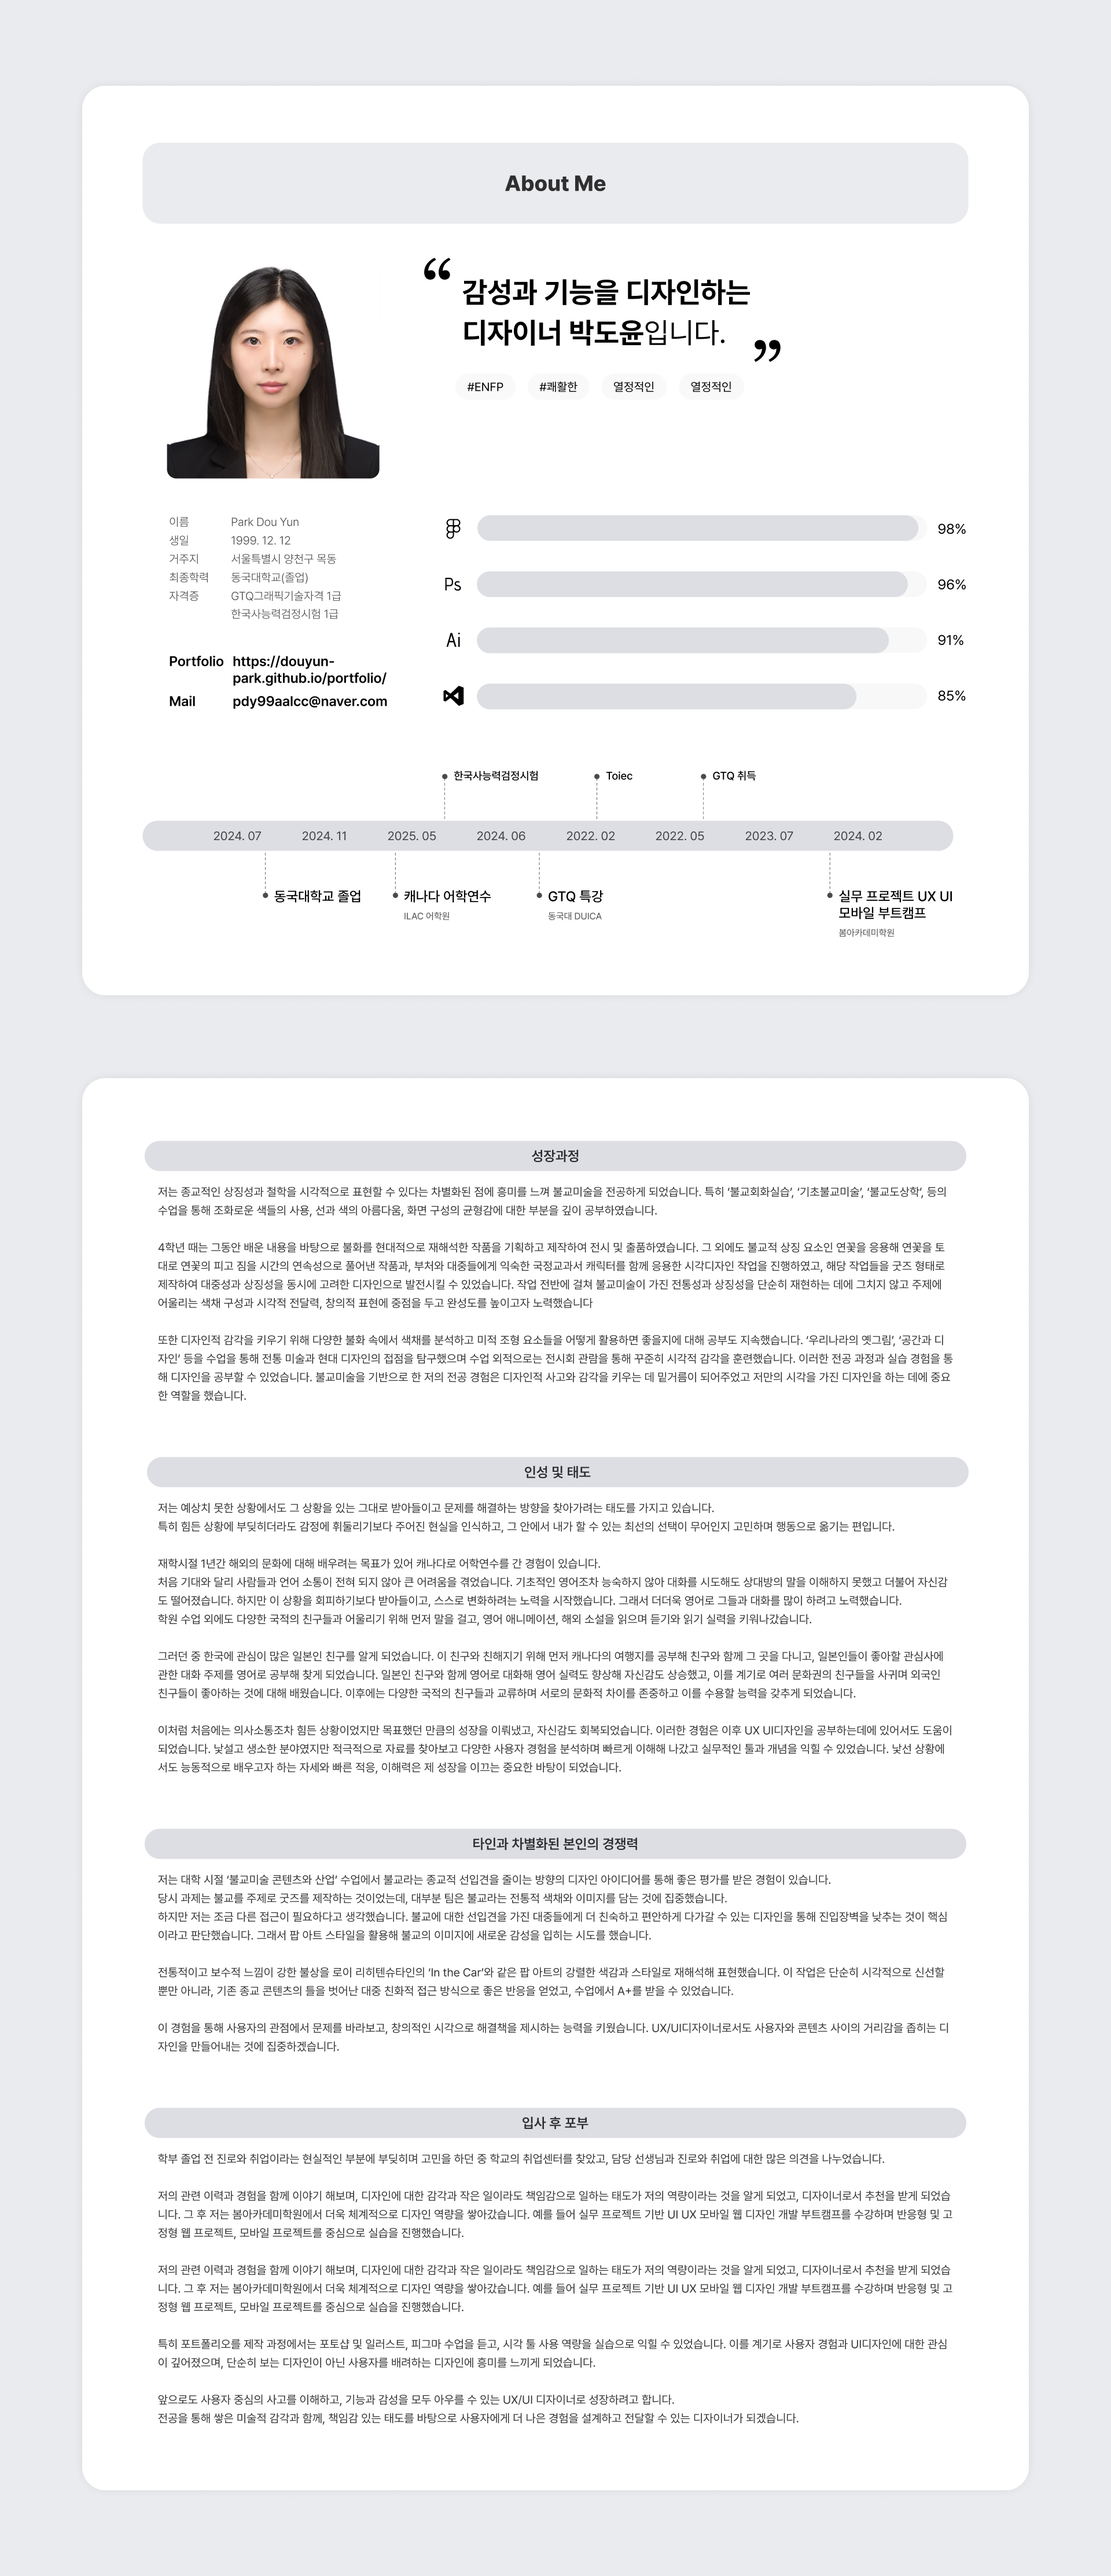
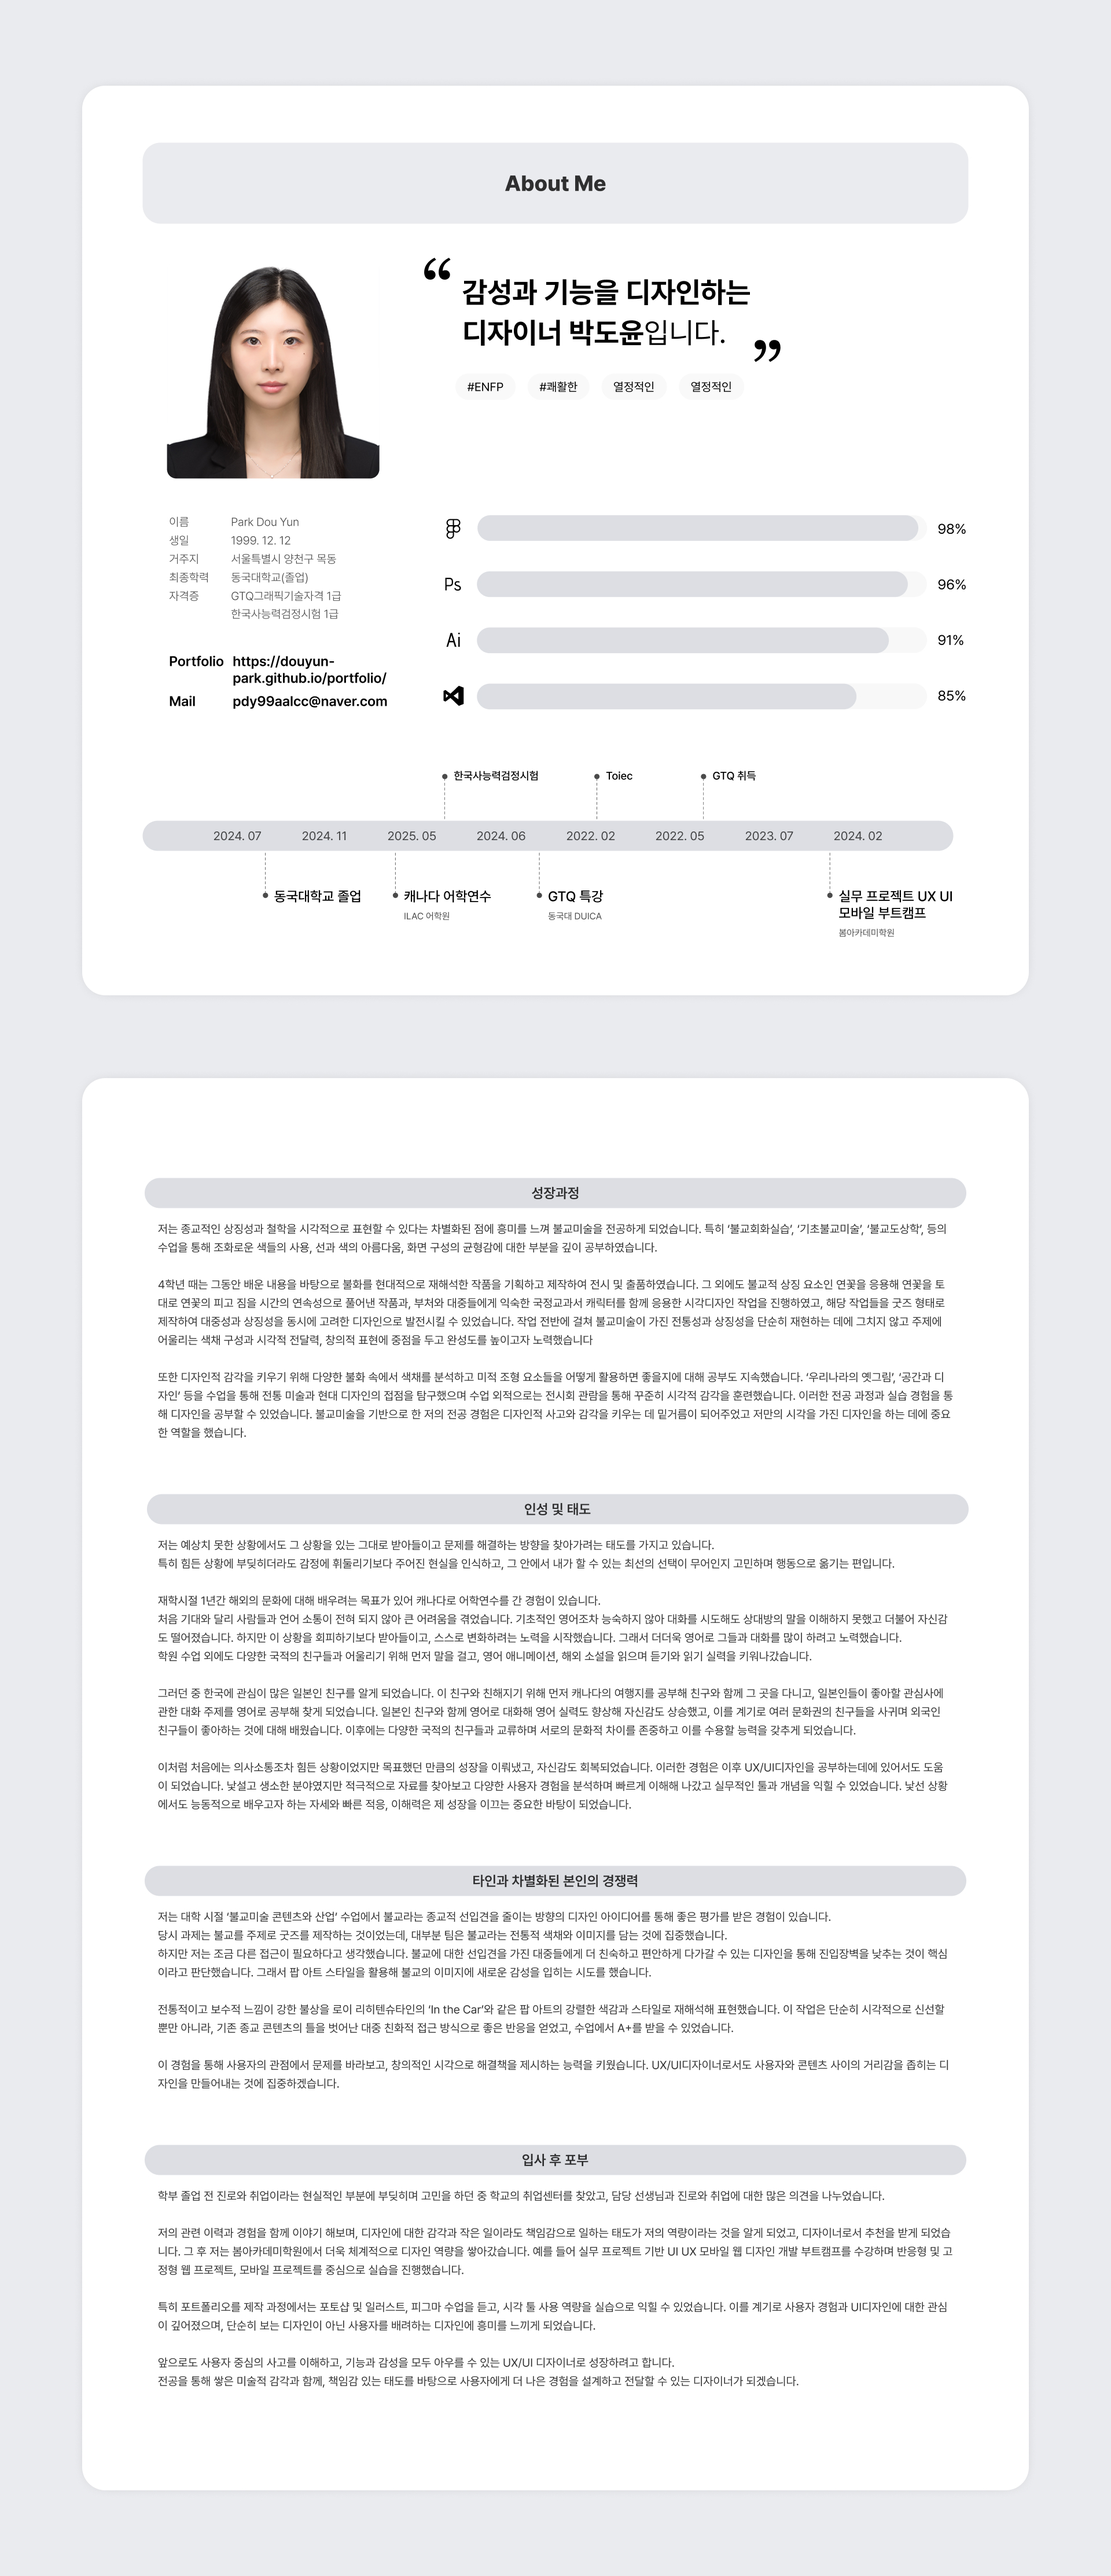
ver1.5.4

Changed region(s): [[0.125, 0.4374, 0.875, 0.9373]]

diff --git a/link/style_guide/promotion.html b/link/style_guide/promotion.html
@@ -42,7 +42,7 @@
 
 
 
-            <div class="info">
+            <!-- <div class="info">
                 <p>
                     <span>   이미지출처: <span>
                        https://press.bifan.kr
@@ -53,7 +53,7 @@
                        https://encrypted-tbn0.gstatic.com
 
                     </p>
-                </div>
+                </div> -->
         </div>
     </div>
 </body>
